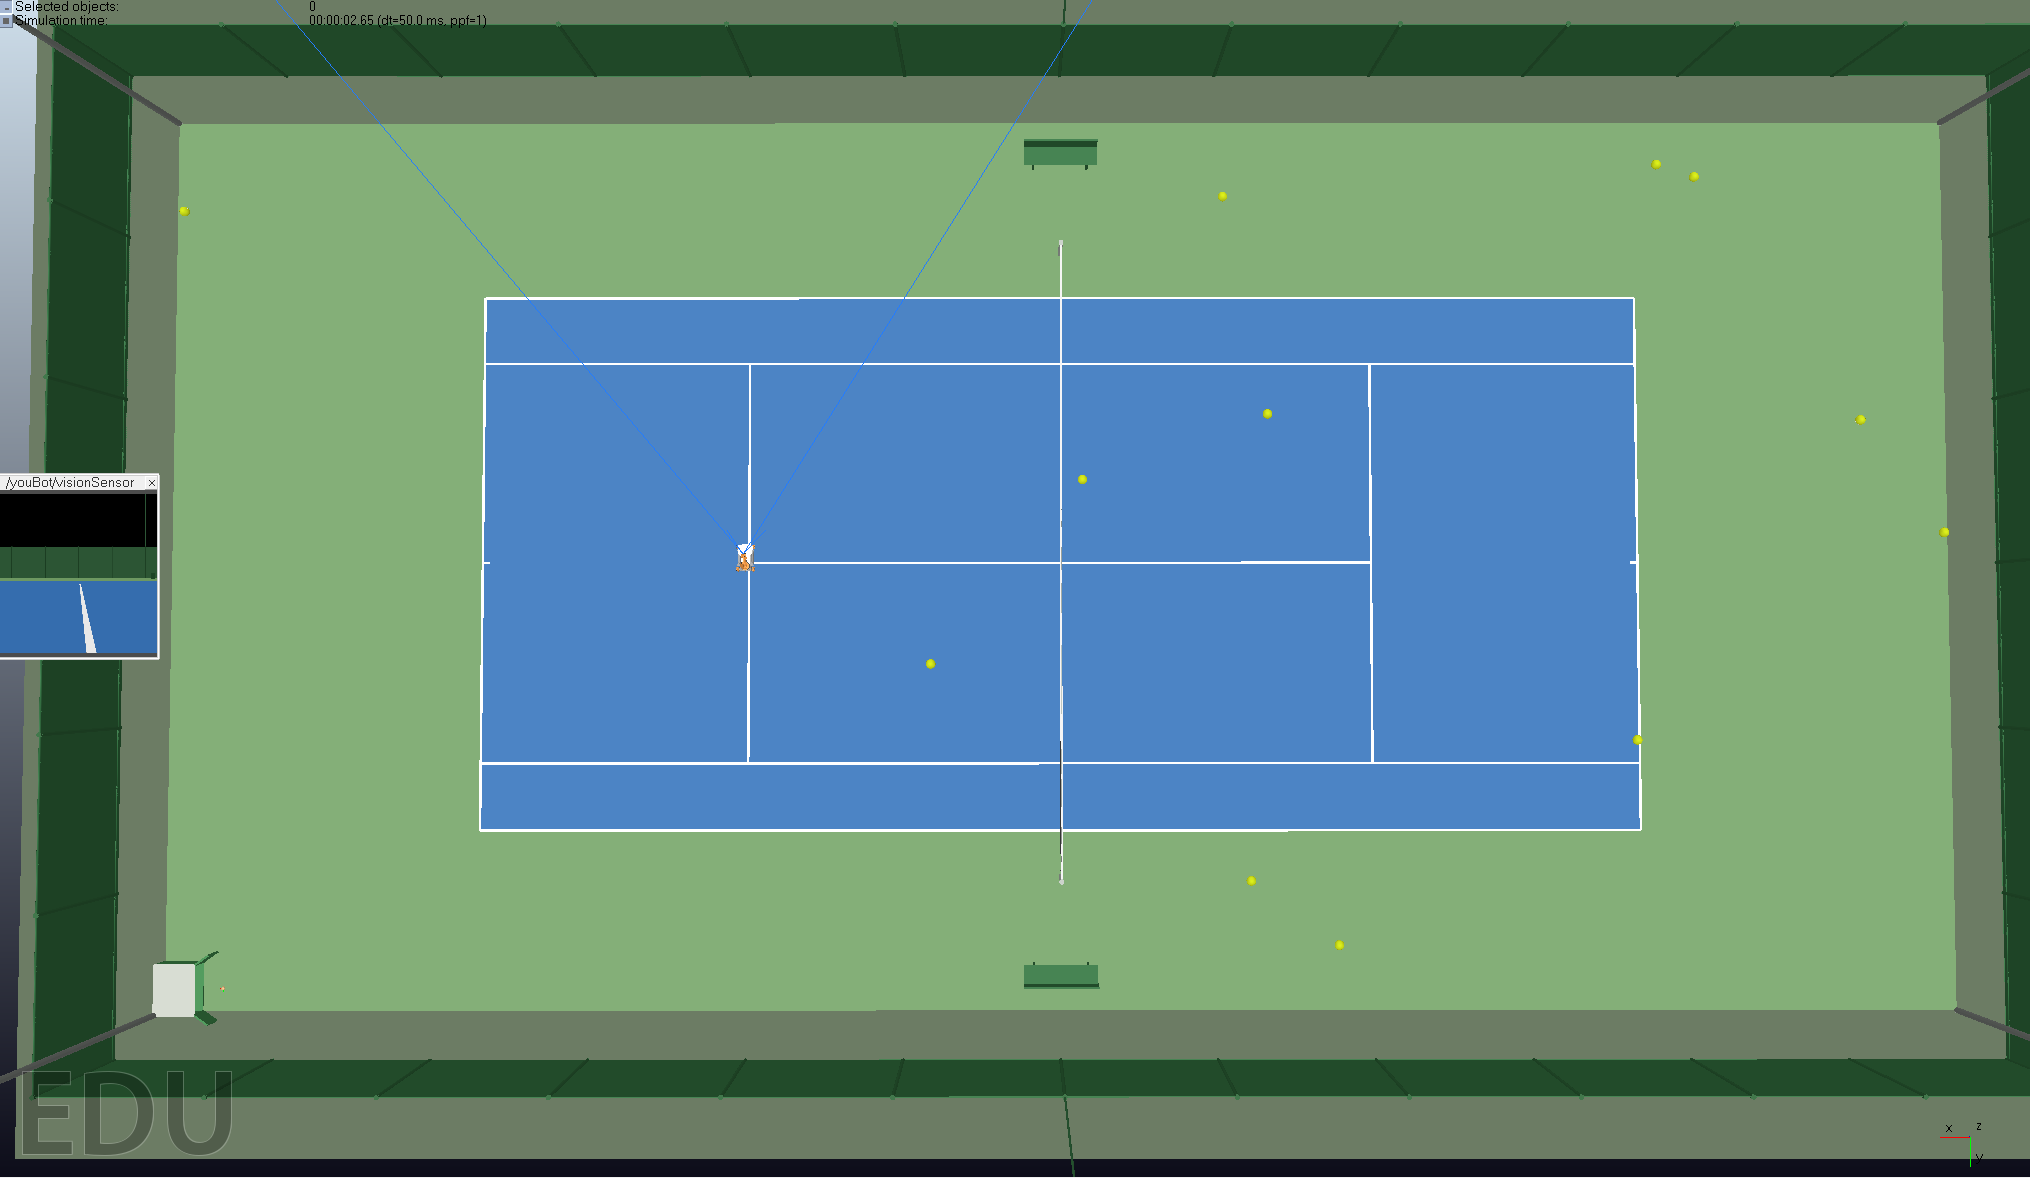
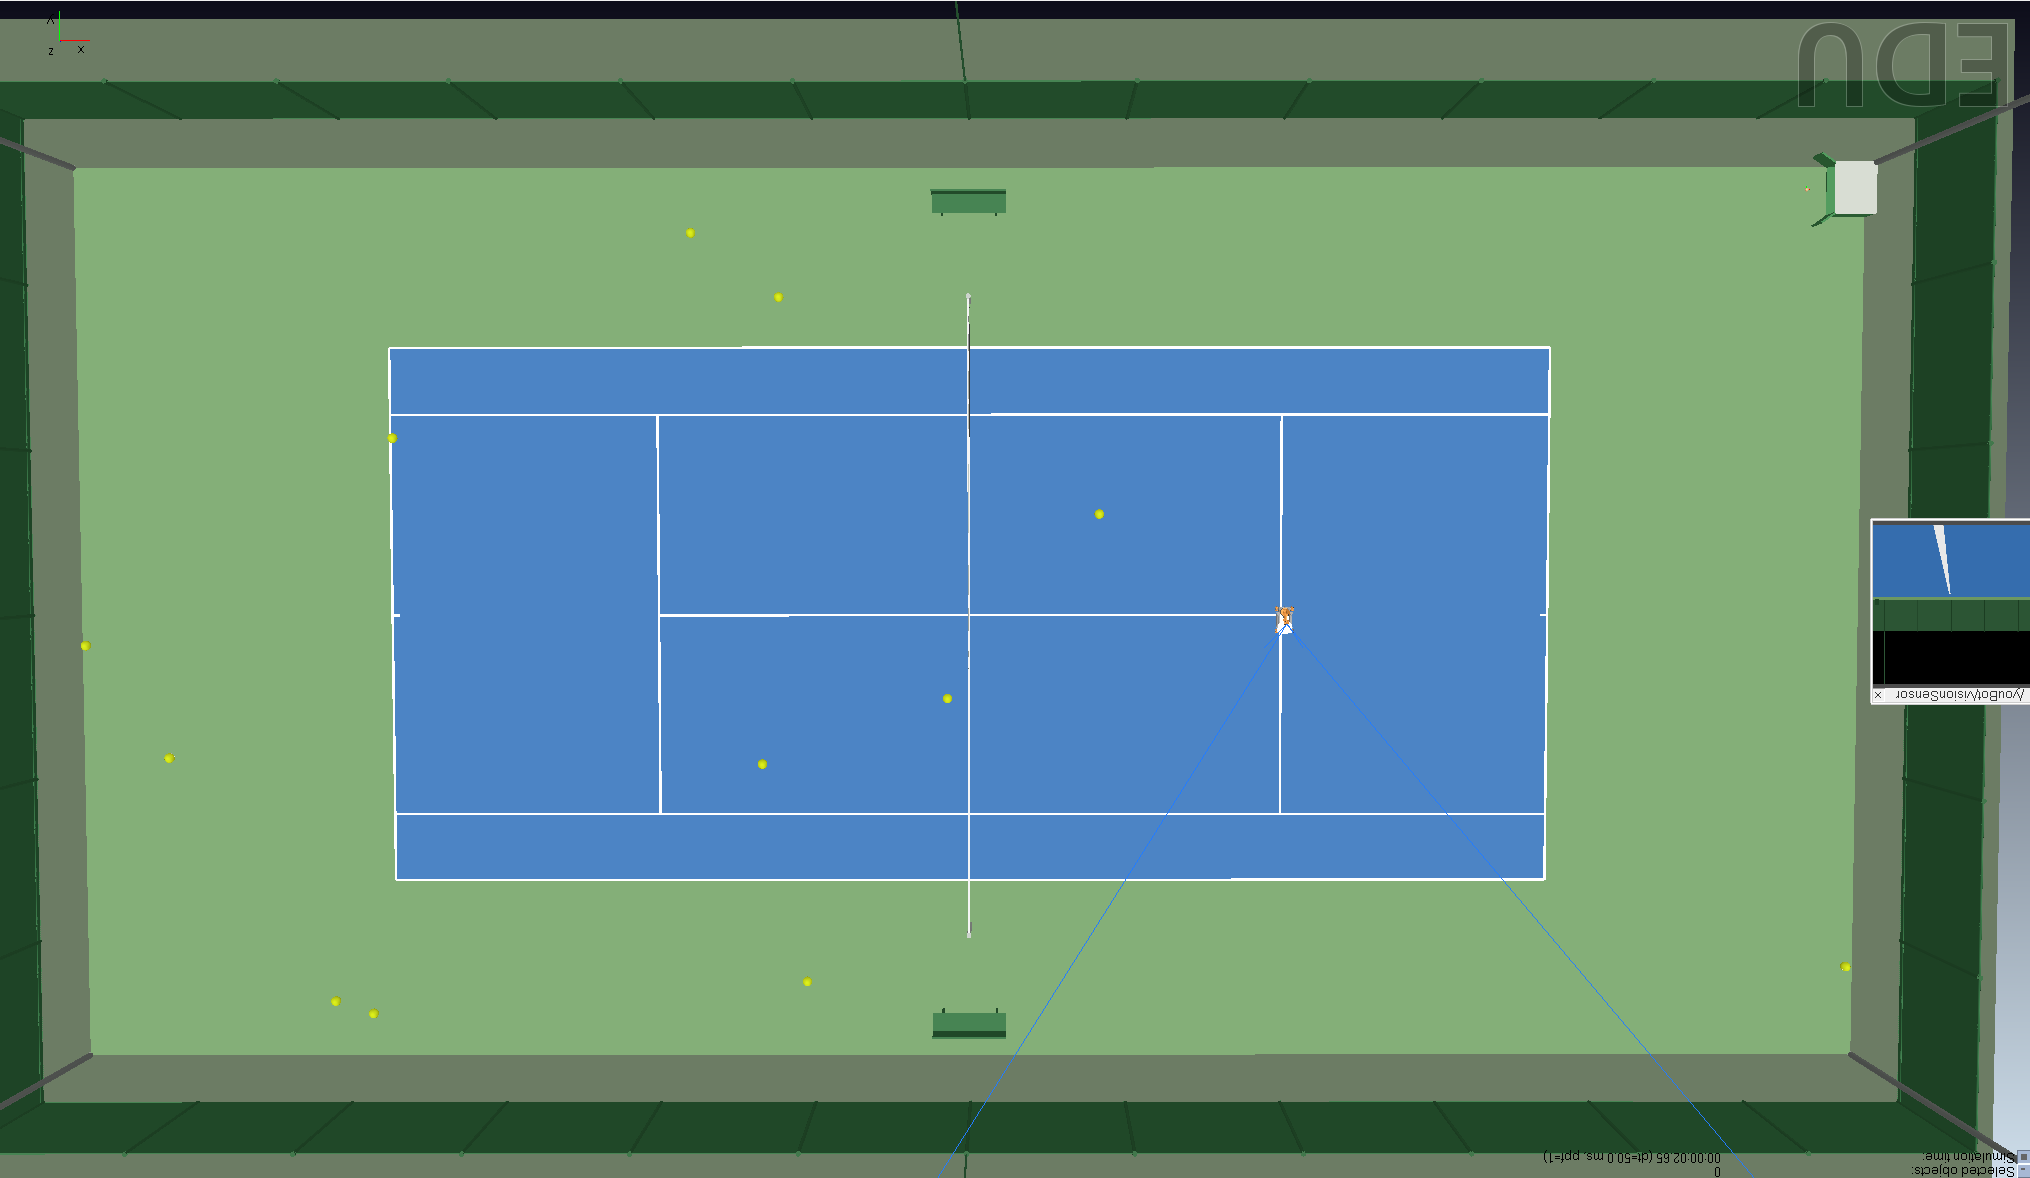
chore: align Tennis_Generate ball radius to 0.1, polish scene comments, adjust train2 defaults

diff --git a/train2.py b/train2.py
@@ -52,7 +52,7 @@ from tennis_rl_env2 import TennisCollectorEnv
 ACTIVE_HALF    = 1         # 训练在 X>0 半场
 
 # ── PPO 超参数 ──
-TOTAL_TIMESTEPS = 200_000
+TOTAL_TIMESTEPS = 500_000
 # v2: 学习率从 3e-4 线性衰减到 1e-4,避免后期抖动
 LEARNING_RATE_INIT = 3e-4
 LEARNING_RATE_END  = 1e-4
@@ -461,7 +461,7 @@ def evaluate(model_path, n_episodes=10):
 #  继续训练（从检查点恢复）
 # =====================================================================
 
-def resume_training(checkpoint_path, additional_timesteps=500_000):
+def resume_training(checkpoint_path, additional_timesteps=210_000):
     """从已保存的 v2 检查点继续训练。
 
     注意: v2 动作空间为 9 维, **不能**加载 train.py (v1, 7 维) 的模型。